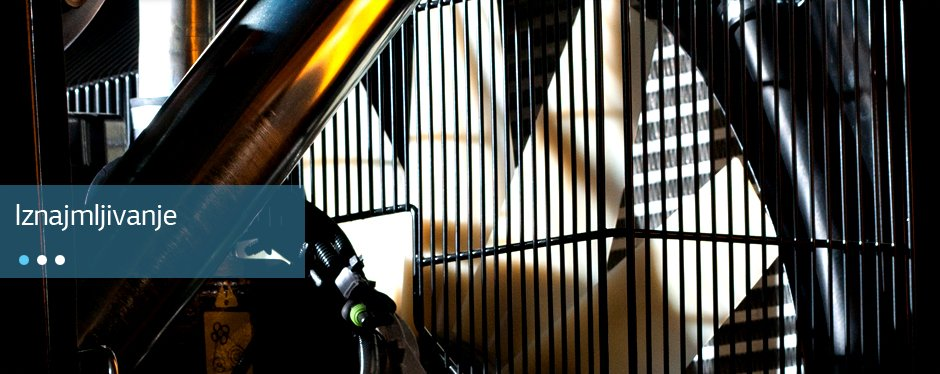
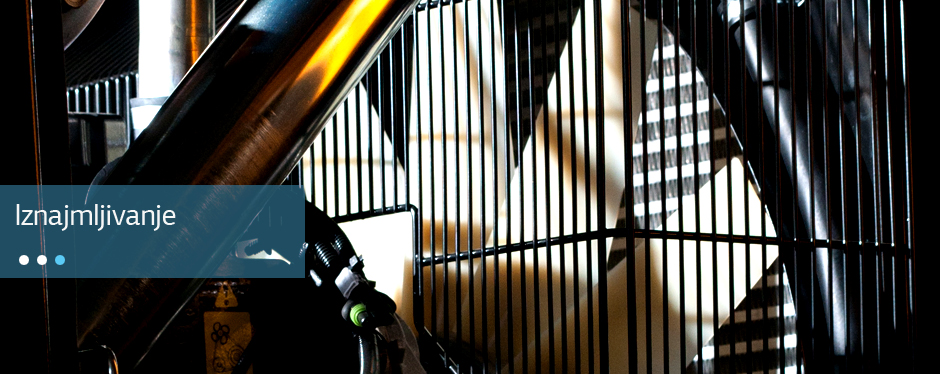
news_scroller prebacen u zaseban view file, sredjena stanica 'O nama'

Changed region(s): [[0.0309, 0.5294, 0.1851, 0.6176], [0.0617, 0.6765, 0.0926, 0.7059], [0.0, 0.6765, 0.0309, 0.7059]]

diff --git a/css/main.css b/css/main.css
@@ -141,8 +141,14 @@ a:hover {
     color: #cdcdcd;
 }
 
-#box6 p#first_in_box6 {
+#box6 h1 {
     padding: 40px 10px 10px 0px;
+}
+
+#box6 h2 {
+    font-size: 16px;
+    margin-bottom: 0;
+    margin-top: 15px;
 }
 
 #box6 p {

diff --git a/application/views/srb/pocetna/index_page.php b/application/views/srb/pocetna/index_page.php
@@ -3,14 +3,14 @@
     <head>
         <meta http-equiv="Content-Type" content="text/html; charset=UTF-8">
         <title>:: Dizel agregati ::</title>
-        <link rel="stylesheet" href="<?=base_url()?>css/reset.css" />
-        <link rel="stylesheet" href="<?=base_url()?>css/text.css" />
-        <link rel="stylesheet" href="<?=base_url()?>css/960.css" />
-        <link rel="stylesheet" href="<?=base_url()?>css/main.css" />
-        <link rel="stylesheet" href="<?=base_url()?>css/jquery.simplyscroll-1.0.4.css" />
-        <script type="text/javascript" src="<?=base_url()?>js/jquery.min.js"></script>
-        <script type="text/javascript" src="<?=base_url()?>js/jquery.cycle.all.js"></script>
-        <script type="text/javascript" src="<?=base_url()?>js/jquery.simplyscroll-1.0.4.min.js"></script>
+        <link rel="stylesheet" href="<?= base_url() ?>css/reset.css" />
+        <link rel="stylesheet" href="<?= base_url() ?>css/text.css" />
+        <link rel="stylesheet" href="<?= base_url() ?>css/960.css" />
+        <link rel="stylesheet" href="<?= base_url() ?>css/main.css" />
+        <link rel="stylesheet" href="<?= base_url() ?>css/jquery.simplyscroll-1.0.4.css" />
+        <script type="text/javascript" src="<?= base_url() ?>js/jquery.min.js"></script>
+        <script type="text/javascript" src="<?= base_url() ?>js/jquery.cycle.all.js"></script>
+        <script type="text/javascript" src="<?= base_url() ?>js/jquery.simplyscroll-1.0.4.min.js"></script>
         <script type="text/javascript">
             $(function() {
                 $('#box3').cycle({
@@ -27,50 +27,50 @@
     <body>
         <div class="container_12">
             <div class="grid_4" id="box0">
-                <img src="<?=base_url()?>images/logo.png" alt="Dizel agregari - Energoglobal doo" />
+                <img src="<?= base_url() ?>images/logo.png" alt="Dizel agregari - Energoglobal doo" />
             </div>
             <div class="grid_8" id="box1">
                 <ul>
-                    <li class="current_page_item"><a href="<?=base_url()?>srb/pocetna">Početna</a></li>
-                    <li><a href="<?=base_url()?>srb/o_nama">O nama</a></li>
-                    <li><a href="<?=base_url()?>srb/proizvodi_i_usluge">Proizvodi i usluge</a></li>
-                    <li><a href="<?=base_url()?>srb/rental">Rental</a></li>
-                    <li><a href="<?=base_url()?>srb/servis">Servis</a></li>
-                    <li><a href="<?=base_url()?>srb/podrska">Podrška</a></li>
-                    <li><a href="<?=base_url()?>srb/reference">Reference</a></li>
-                    <li><a href="<?=base_url()?>srb/kontakt">Kontakt</a></li>
+                    <li class="current_page_item"><a href="<?= base_url() ?>srb/pocetna">Početna</a></li>
+                    <li><a href="<?= base_url() ?>srb/o_nama">O nama</a></li>
+                    <li><a href="<?= base_url() ?>srb/proizvodi_i_usluge">Proizvodi i usluge</a></li>
+                    <li><a href="<?= base_url() ?>srb/rental">Rental</a></li>
+                    <li><a href="<?= base_url() ?>srb/servis">Servis</a></li>
+                    <li><a href="<?= base_url() ?>srb/podrska">Podrška</a></li>
+                    <li><a href="<?= base_url() ?>srb/reference">Reference</a></li>
+                    <li><a href="<?= base_url() ?>srb/kontakt">Kontakt</a></li>
                 </ul>
             </div>
             <div class="grid_12" id="box2">
                 <form>
-                <table>
-                    <tr>
-                        <td style="width: 15%;">
-                            <a href="#" id="current_page_language">SR</a>
-                            <a href="#">EN</a>
-                        </td>
-                        <td style="width: 85%; text-align: right;">                        
-                            <label for="username">Korisnicko ime:</label>
-                            <input id="username" name="username" type="text" placeholder="username" />                        
-                            <label for="password">Lozinka:</label>
-                            <input id="password" name="password" type="password" placeholder="password" />                        
-                            <input type="submit" value="Prijavite se"/>
-                        </td>
-                    </tr>
-                </table>
+                    <table>
+                        <tr>
+                            <td style="width: 15%;">
+                                <a href="#" id="current_page_language">SR</a>
+                                <a href="#">EN</a>
+                            </td>
+                            <td style="width: 85%; text-align: right;">                        
+                                <label for="username">Korisnicko ime:</label>
+                                <input id="username" name="username" type="text" placeholder="username" />                        
+                                <label for="password">Lozinka:</label>
+                                <input id="password" name="password" type="password" placeholder="password" />                        
+                                <input type="submit" value="Prijavite se"/>
+                            </td>
+                        </tr>
+                    </table>
                 </form>
             </div>
             <div class="clear"></div>
             <div class="grid_12" id="box3">                
-                <a href="#i">
-                    <img src="<?=base_url()?>images/iznajmljivanje.jpg" alt="Iznajmljivanje" />
-                </a>
                 <a href="#p">
                     <img src="<?=base_url()?>images/prodaja.jpg" alt="Prodaja"/>
                 </a>
                 <a href="#s">
                     <img src="<?=base_url()?>images/servis.jpg" alt="Servis"/>
-                </a>                
+                </a>
+                <a href="#i">
+                    <img src="<?=base_url()?>images/iznajmljivanje.jpg" alt="Iznajmljivanje" />
+                </a>
             </div>            
         </div>
         <div id="box4">
@@ -87,49 +87,7 @@
                     </p>
                 </div>
                 <div class="grid_3" id="box7">
-                    <h2>Novosti</h2>
-                    <ul id="news_scroller">
-                        <li>
-                            <h3><a href="#">Nalov 01</a></h3>
-                            <p>
-                                01.01.2011.<br/>
-                                Sed ut perspiciatis unde omnis iste natus error sit voluptatem 
-                                accusantium doloremque laudantium, totam rem aperiam, eaque 
-                                ipsa quae ab illo inventore veritatis et quasi architecto 
-                                beatae vitae dicta sunt explicabo.
-                            </p>
-                        </li>
-                        <li>
-                            <h3><a href="#">Nalov 02</a></h3>
-                            <p>
-                                01.02.2011.<br/>
-                                Sed ut perspiciatis unde omnis iste natus error sit voluptatem 
-                                accusantium doloremque laudantium, totam rem aperiam, eaque 
-                                ipsa quae ab illo inventore veritatis et quasi architecto 
-                                beatae vitae dicta sunt explicabo.
-                            </p>
-                        </li>
-                        <li>
-                            <h3><a href="#">Nalov 02</a></h3>
-                            <p>
-                                01.03.2011.<br/>
-                                Sed ut perspiciatis unde omnis iste natus error sit voluptatem 
-                                accusantium doloremque laudantium, totam rem aperiam, eaque 
-                                ipsa quae ab illo inventore veritatis et quasi architecto 
-                                beatae vitae dicta sunt explicabo.
-                            </p>
-                        </li>
-                        <li>
-                            <h3><a href="#">Nalov 04</a></h3>
-                            <p>
-                                02.04.2011.<br/>
-                                Sed ut perspiciatis unde omnis iste natus error sit voluptatem 
-                                accusantium doloremque laudantium, totam rem aperiam, eaque 
-                                ipsa quae ab illo inventore veritatis et quasi architecto 
-                                beatae vitae dicta sunt explicabo.
-                            </p>
-                        </li>
-                    </ul>                    
+                    <?=$this->load->view('srb/news_scroller')?>
                 </div>
             </div>
         </div>
@@ -137,19 +95,19 @@
             <div class="container_12">
                 <div class="grid_7" id="box9">                    
                     <ul>
-                        <li class="current_page_item"><a href="<?=base_url()?>srb/pocetna">Početna</a></li>
-                        <li><a href="<?=base_url()?>srb/o_nama">O nama</a></li>
-                        <li><a href="<?=base_url()?>srb/proizvodi_i_usluge">Proizvodi i usluge</a></li>
-                        <li><a href="<?=base_url()?>srb/rental">Rental</a></li>
-                        <li><a href="<?=base_url()?>srb/servis">Servis</a></li>
-                        <li><a href="<?=base_url()?>srb/podrska">Podrška</a></li>
-                        <li><a href="<?=base_url()?>srb/reference">Reference</a></li>
-                        <li><a href="<?=base_url()?>srb/kontakt">Kontakt</a></li>
+                        <li class="current_page_item"><a href="<?= base_url() ?>srb/pocetna">Početna</a></li>
+                        <li><a href="<?= base_url() ?>srb/o_nama">O nama</a></li>
+                        <li><a href="<?= base_url() ?>srb/proizvodi_i_usluge">Proizvodi i usluge</a></li>
+                        <li><a href="<?= base_url() ?>srb/rental">Rental</a></li>
+                        <li><a href="<?= base_url() ?>srb/servis">Servis</a></li>
+                        <li><a href="<?= base_url() ?>srb/podrska">Podrška</a></li>
+                        <li><a href="<?= base_url() ?>srb/reference">Reference</a></li>
+                        <li><a href="<?= base_url() ?>srb/kontakt">Kontakt</a></li>
                     </ul>
                 </div>
                 <div class="grid_5" id="box10">
                     <p>
-                        &copy; Energoglobal doo | Ažurirano: 06.10.2011. | Design by Baseline / code by nebjak
+                        &copy; Energoglobal doo | Ažurirano: <?= SITE_LAST_UPDATE ?> | Design by Baseline / code by nebjak
                     </p>
                 </div>
             </div>

diff --git a/application/views/srb/o_nama/index_page.php b/application/views/srb/o_nama/index_page.php
@@ -1,1 +1,135 @@
-<?php
+<!DOCTYPE html>
+<html>
+    <head>
+        <meta http-equiv="Content-Type" content="text/html; charset=UTF-8">
+        <title>:: Dizel agregati ::</title>
+        <link rel="stylesheet" href="<?=base_url()?>css/reset.css" />
+        <link rel="stylesheet" href="<?=base_url()?>css/text.css" />
+        <link rel="stylesheet" href="<?=base_url()?>css/960.css" />
+        <link rel="stylesheet" href="<?=base_url()?>css/main.css" />
+        <link rel="stylesheet" href="<?=base_url()?>css/jquery.simplyscroll-1.0.4.css" />
+        <script type="text/javascript" src="<?=base_url()?>js/jquery.min.js"></script>
+        <script type="text/javascript" src="<?=base_url()?>js/jquery.cycle.all.js"></script>
+        <script type="text/javascript" src="<?=base_url()?>js/jquery.simplyscroll-1.0.4.min.js"></script>
+        <script type="text/javascript">
+            $(function() {
+                $('#box3').cycle({
+                    fx:     'scrollLeft', 
+                    timeout: 5000
+                });
+                $("#news_scroller").simplyScroll({
+                    autoMode: 'loop',
+                    horizontal: false
+                });
+            });
+        </script>
+    </head>
+    <body>
+        <div class="container_12">
+            <div class="grid_4" id="box0">
+                <img src="<?=base_url()?>images/logo.png" alt="Dizel agregari - Energoglobal doo" />
+            </div>
+            <div class="grid_8" id="box1">
+                <ul>
+                    <li><a href="<?=base_url()?>srb/pocetna">Početna</a></li>
+                    <li class="current_page_item"><a href="<?=base_url()?>srb/o_nama">O nama</a></li>
+                    <li><a href="<?=base_url()?>srb/proizvodi_i_usluge">Proizvodi i usluge</a></li>
+                    <li><a href="<?=base_url()?>srb/rental">Rental</a></li>
+                    <li><a href="<?=base_url()?>srb/servis">Servis</a></li>
+                    <li><a href="<?=base_url()?>srb/podrska">Podrška</a></li>
+                    <li><a href="<?=base_url()?>srb/reference">Reference</a></li>
+                    <li><a href="<?=base_url()?>srb/kontakt">Kontakt</a></li>
+                </ul>
+            </div>
+            <div class="grid_12" id="box2">
+                <form>
+                <table>
+                    <tr>
+                        <td style="width: 15%;">
+                            <a href="#" id="current_page_language">SR</a>
+                            <a href="#">EN</a>
+                        </td>
+                        <td style="width: 85%; text-align: right;">                        
+                            <label for="username">Korisnicko ime:</label>
+                            <input id="username" name="username" type="text" placeholder="username" />                        
+                            <label for="password">Lozinka:</label>
+                            <input id="password" name="password" type="password" placeholder="password" />                        
+                            <input type="submit" value="Prijavite se"/>
+                        </td>
+                    </tr>
+                </table>
+                </form>
+            </div>
+            <div class="clear"></div>
+            <div class="grid_12" id="box3">
+                <a href="#p">
+                    <img src="<?=base_url()?>images/prodaja.jpg" alt="Prodaja"/>
+                </a>
+                <a href="#s">
+                    <img src="<?=base_url()?>images/servis.jpg" alt="Servis"/>
+                </a>
+                <a href="#i">
+                    <img src="<?=base_url()?>images/iznajmljivanje.jpg" alt="Iznajmljivanje" />
+                </a>
+            </div>
+        </div>
+        <div id="box4">
+            <div class="container_12" id="box5">
+                <div class="grid_9" id="box6">
+                    <div id="sub_menu">
+                        Iznajmljivanje | Prodaja | Servis
+                    </div>                    
+                    <h1>O nama</h1>
+                    <h2>Profil kompanije</h2>
+                    <p>
+                        ENERGOGLOBAL, je nastao  od ideje da se višegodišnje 
+                        iskustvo iz oblasti energetike, rezervnih izvora napajanja 
+                        električnom energijom (dizel agregati i UPS) i 
+                        obnovljivih izvora električne energije (male 
+                        hidroelektrane, biomasa), objedini u timu stručnjaka, 
+                        sa ciljem da se tržištu ponude kvalitetnija rešenja po 
+                        konkurentnim uslovima.<br/>
+                        Biramo da naši parteri budu najpoznatije domaće i svetske 
+                        firme koje su u svom segmentu uvek korak ispred drugih.
+                    </p>
+                    <h2>Misija i i vizija</h2>
+                    <p>
+                        Naša misija je da primenom dugogodišnjeg iskustva i 
+                        kvalitetnih komponeti pomognemo našim klijentima pri 
+                        projektovanju, odabiru i,ispruci opreme i  izvođenju po 
+                        sistemu ključ u ruke, remontu i servisu dizelagregatskih 
+                        potrojenja i UPS sistema.<br/>
+                        Naša vizija je da kroz  konstantno povećanje  znanja i 
+                        novih tehnologija  postamo  jedna od vodećih kompanija iz 
+                        oblasti rezervnih i alternativnih izvora napajanja a na 
+                        zadovoljstvo naših korisnika i partnera.
+                    </p>
+                </div>
+                <div class="grid_3" id="box7">
+                    <?=$this->load->view('srb/news_scroller')?>
+                </div>
+            </div>
+        </div>
+        <div id="box8">
+            <div class="container_12">
+                <div class="grid_7" id="box9">                    
+                    <ul>
+                        <li><a href="<?=base_url()?>srb/pocetna">Početna</a></li>
+                        <li class="current_page_item"><a href="<?=base_url()?>srb/o_nama">O nama</a></li>
+                        <li><a href="<?=base_url()?>srb/proizvodi_i_usluge">Proizvodi i usluge</a></li>
+                        <li><a href="<?=base_url()?>srb/rental">Rental</a></li>
+                        <li><a href="<?=base_url()?>srb/servis">Servis</a></li>
+                        <li><a href="<?=base_url()?>srb/podrska">Podrška</a></li>
+                        <li><a href="<?=base_url()?>srb/reference">Reference</a></li>
+                        <li><a href="<?=base_url()?>srb/kontakt">Kontakt</a></li>
+                    </ul>
+                </div>
+                <div class="grid_5" id="box10">
+                    <p>
+                        &copy; Energoglobal doo | Ažurirano: <?=SITE_LAST_UPDATE?> | Design by Baseline / code by nebjak
+                    </p>
+                </div>
+            </div>
+        </div>
+    </body>
+</html>

diff --git a/application/views/srb/news_scroller.php b/application/views/srb/news_scroller.php
@@ -1,0 +1,43 @@
+<h2>Novosti</h2>
+<ul id="news_scroller">
+    <li>
+        <h3><a href="#">Nalov 01</a></h3>
+        <p>
+            01.01.2011.<br/>
+            Sed ut perspiciatis unde omnis iste natus error sit voluptatem 
+            accusantium doloremque laudantium, totam rem aperiam, eaque 
+            ipsa quae ab illo inventore veritatis et quasi architecto 
+            beatae vitae dicta sunt explicabo.
+        </p>
+    </li>
+    <li>
+        <h3><a href="#">Nalov 02</a></h3>
+        <p>
+            01.02.2011.<br/>
+            Sed ut perspiciatis unde omnis iste natus error sit voluptatem 
+            accusantium doloremque laudantium, totam rem aperiam, eaque 
+            ipsa quae ab illo inventore veritatis et quasi architecto 
+            beatae vitae dicta sunt explicabo.
+        </p>
+    </li>
+    <li>
+        <h3><a href="#">Nalov 02</a></h3>
+        <p>
+            01.03.2011.<br/>
+            Sed ut perspiciatis unde omnis iste natus error sit voluptatem 
+            accusantium doloremque laudantium, totam rem aperiam, eaque 
+            ipsa quae ab illo inventore veritatis et quasi architecto 
+            beatae vitae dicta sunt explicabo.
+        </p>
+    </li>
+    <li>
+        <h3><a href="#">Nalov 04</a></h3>
+        <p>
+            02.04.2011.<br/>
+            Sed ut perspiciatis unde omnis iste natus error sit voluptatem 
+            accusantium doloremque laudantium, totam rem aperiam, eaque 
+            ipsa quae ab illo inventore veritatis et quasi architecto 
+            beatae vitae dicta sunt explicabo.
+        </p>
+    </li>
+</ul>                    

diff --git a/application/controllers/srb/o_nama.php b/application/controllers/srb/o_nama.php
@@ -7,6 +7,6 @@ class O_nama extends CI_Controller {
     }
     
     function index() {
-        $this->load->view('srb/kontakt/index_page');
+        $this->load->view('srb/o_nama/index_page');
     }
 }
